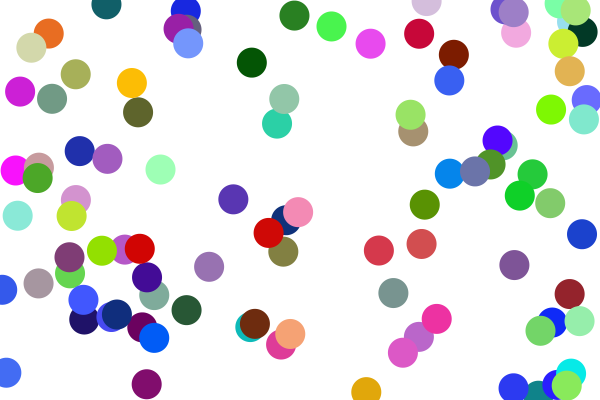
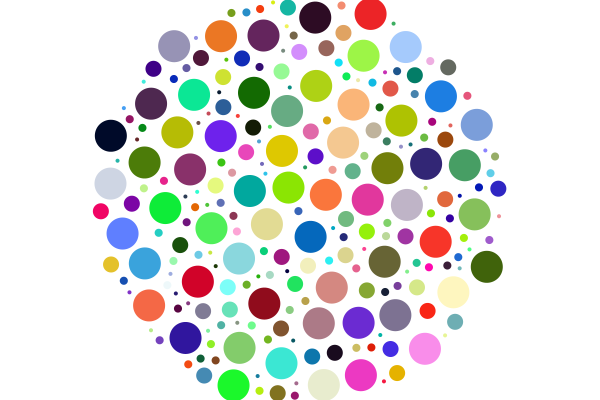
first pass

diff --git a/src/main.rs b/src/main.rs
@@ -6,6 +6,9 @@ use rand::distributions::{ IndependentSample, Range };
 use cairo::{ ImageSurface, Format, Context };
 use std::fs::File;
 
+const MARGIN: f64 = 5.0;
+
+#[derive(Debug)]
 struct Circle {
     colour: (f64, f64, f64),
     x: f64,
@@ -37,11 +40,35 @@ impl Circle {
         context.arc(self.x, self.y, self.radius, 0.0, 360.0);
         context.fill();
     }
+
+    fn collides(&self, other: &Circle) -> bool {
+        dist(self.x, self.y, other.x, other.y) < (self.radius + other.radius + MARGIN)
+    }
+}
+
+fn is_valid(circle: &Circle, circles: &Vec<Circle>) -> bool {
+    // width / 2, height / 2
+    if dist(circle.x, circle.y, 300.0, 200.0) > 200.0 {
+        return false;
+    }
+
+    for c in circles {
+        if circle.collides(c) {
+            return false;
+        }
+    }
+    true
+}
+
+fn dist(x1: f64, y1: f64, x2: f64, y2: f64) -> f64 {
+    ((x2 - x1).powi(2) + (y2 - y1).powi(2)).sqrt()
 }
 
 fn main() {
     let width = 600;
     let height = 400;
+    let mut radius = 16.0;
+    let RADIUS_MIN = 2.0;
 
     let surface = ImageSurface::create(Format::ARgb32, width, height)
         .expect("Couldn't create surface");
@@ -49,17 +76,34 @@ fn main() {
     let mut circles: Vec<Circle> = vec![];
     let mut rng = rand::thread_rng();
 
-    for _ in 0..100 {
+    let mut failed_tries = 0;
+
+    for _ in 0..20000 {
+        // if failed_tries < 32 * 1024 / radius {
         let between = Range::new(0.0, width as f64);
         let between_y = Range::new(0.0, height as f64);
 
         let x = between.ind_sample(&mut rng);
         let y = between_y.ind_sample(&mut rng);
 
-        let circle = Circle::new(x, y, 15.0);
-        circles.push(circle);
+        let circle = Circle::new(x, y, radius);
+        if is_valid(&circle, &circles) {
+            circles.push(circle);
+            // }
+        } else {
+            failed_tries += 1;
+            if failed_tries as f64 > (32 * 1024) as f64 / radius {
+                radius /= 2.0;
+                failed_tries = 0;
+
+                if radius < RADIUS_MIN {
+                    break;
+                }
+            }
+        }
     }
 
+    println!("{:?}", circles.len());
     for circle in circles {
         circle.draw(&context);
     }
